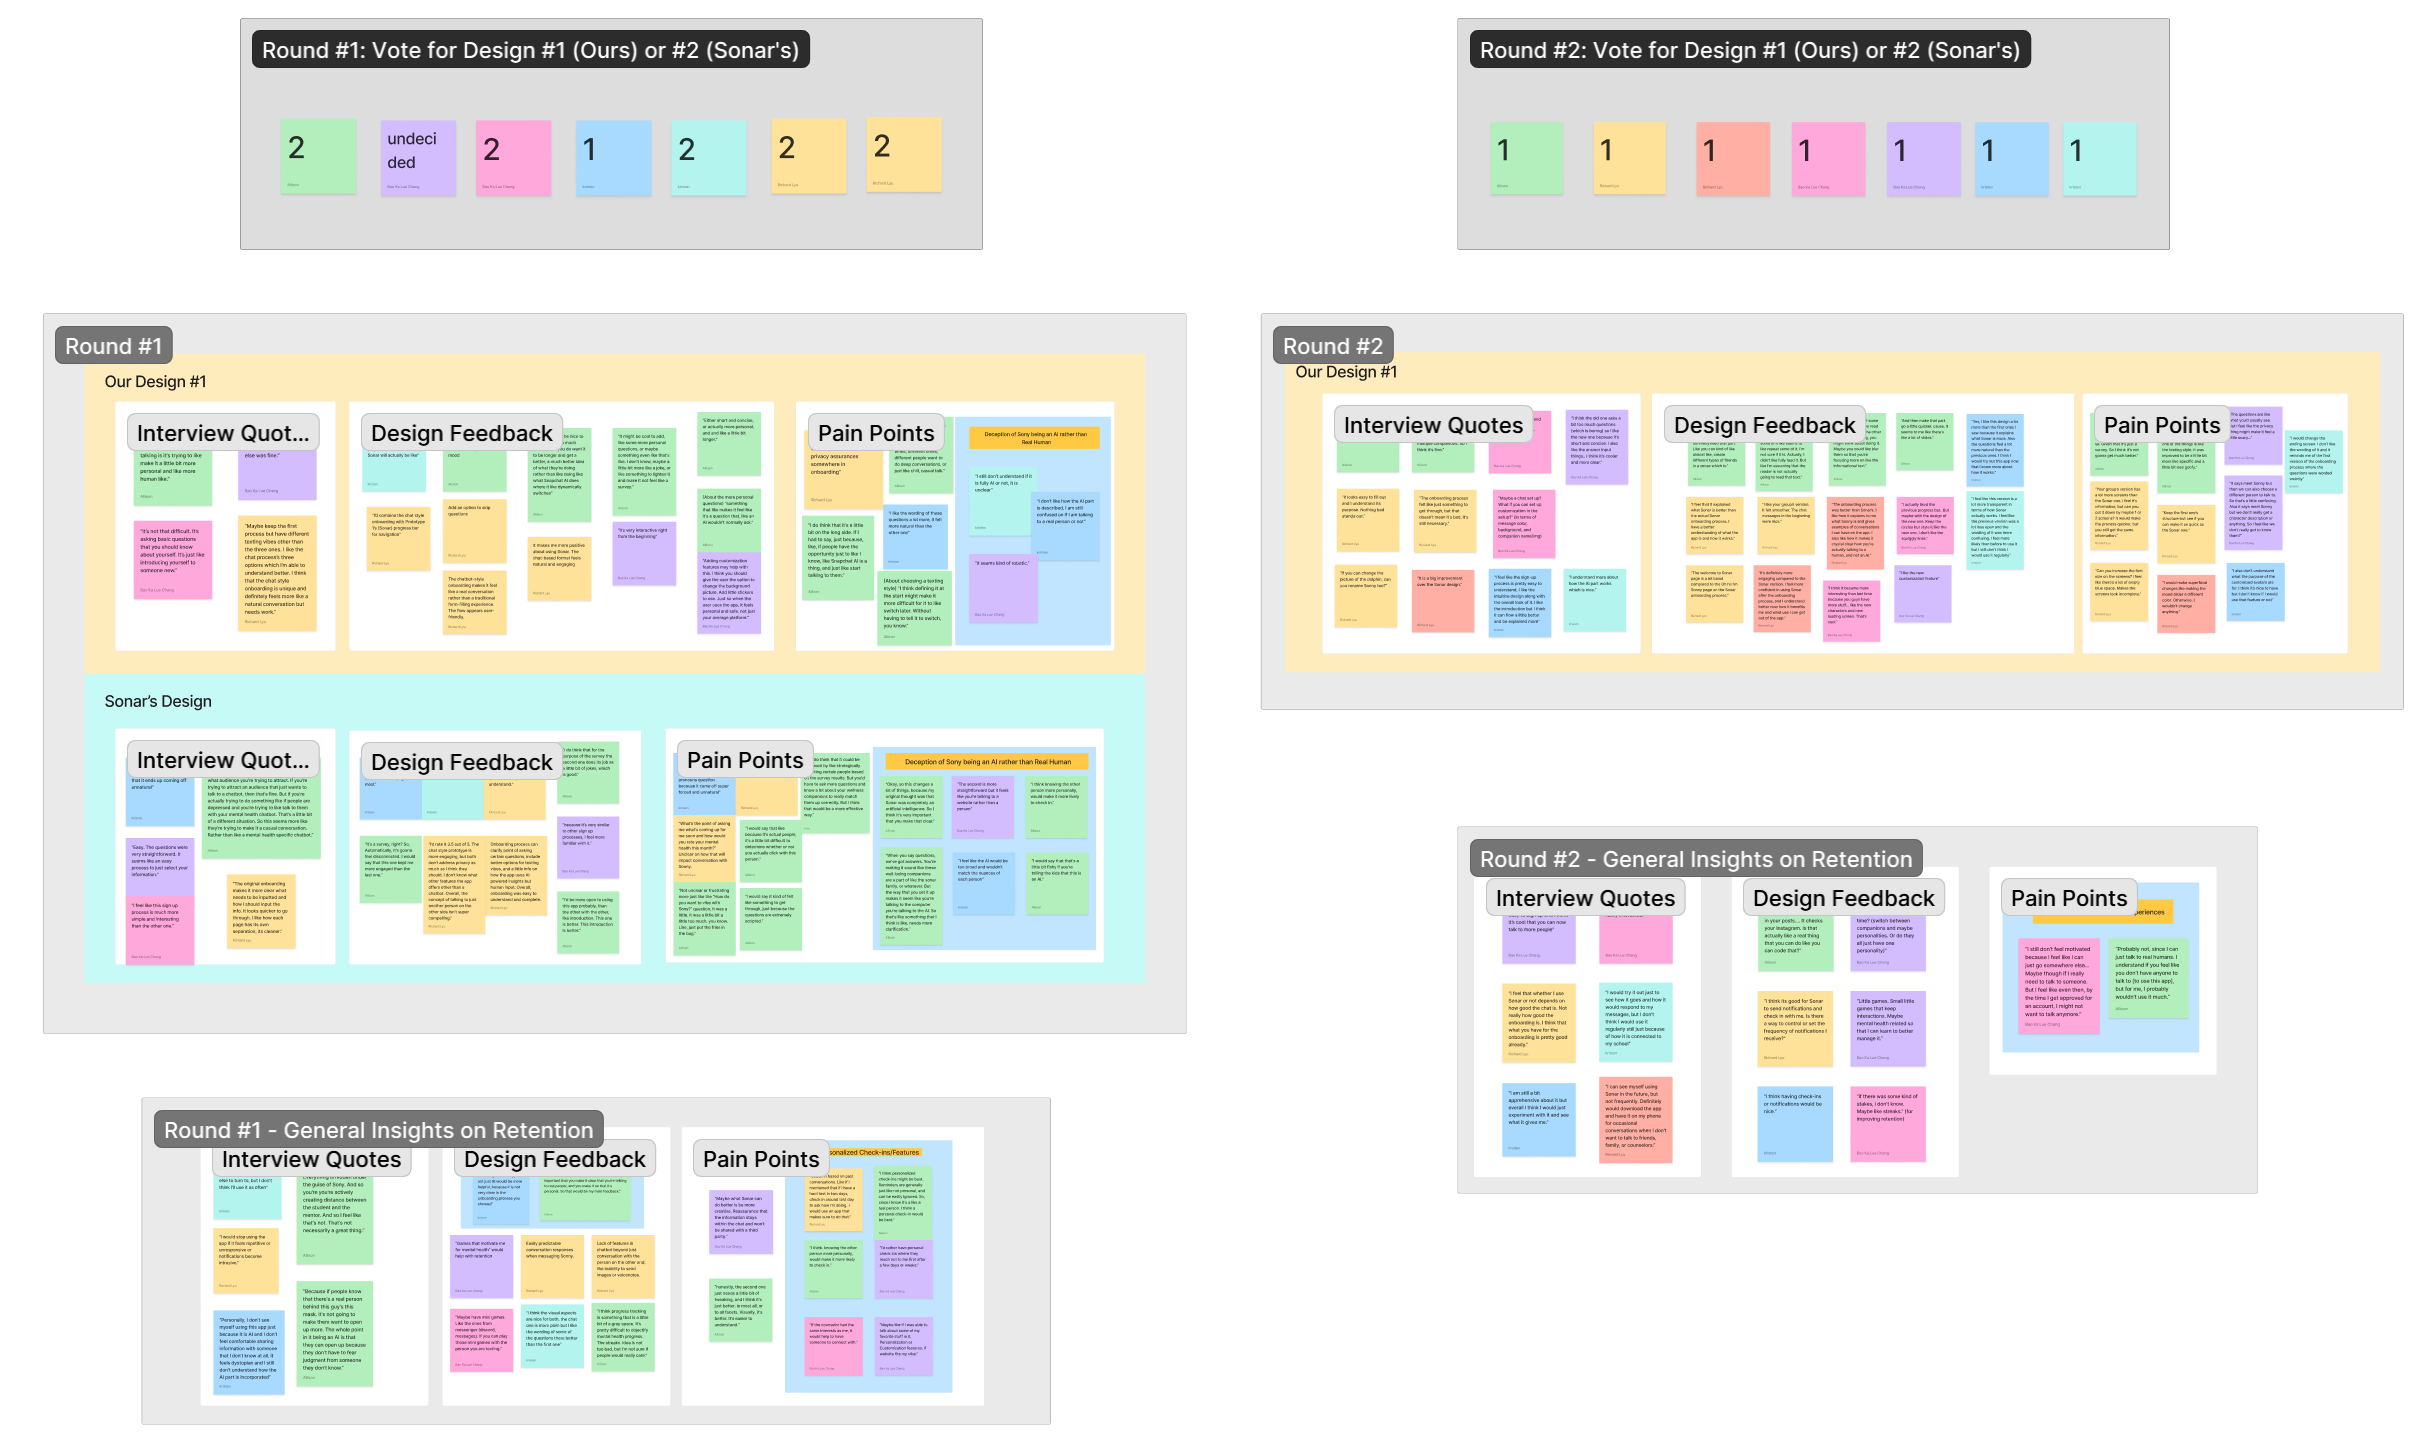
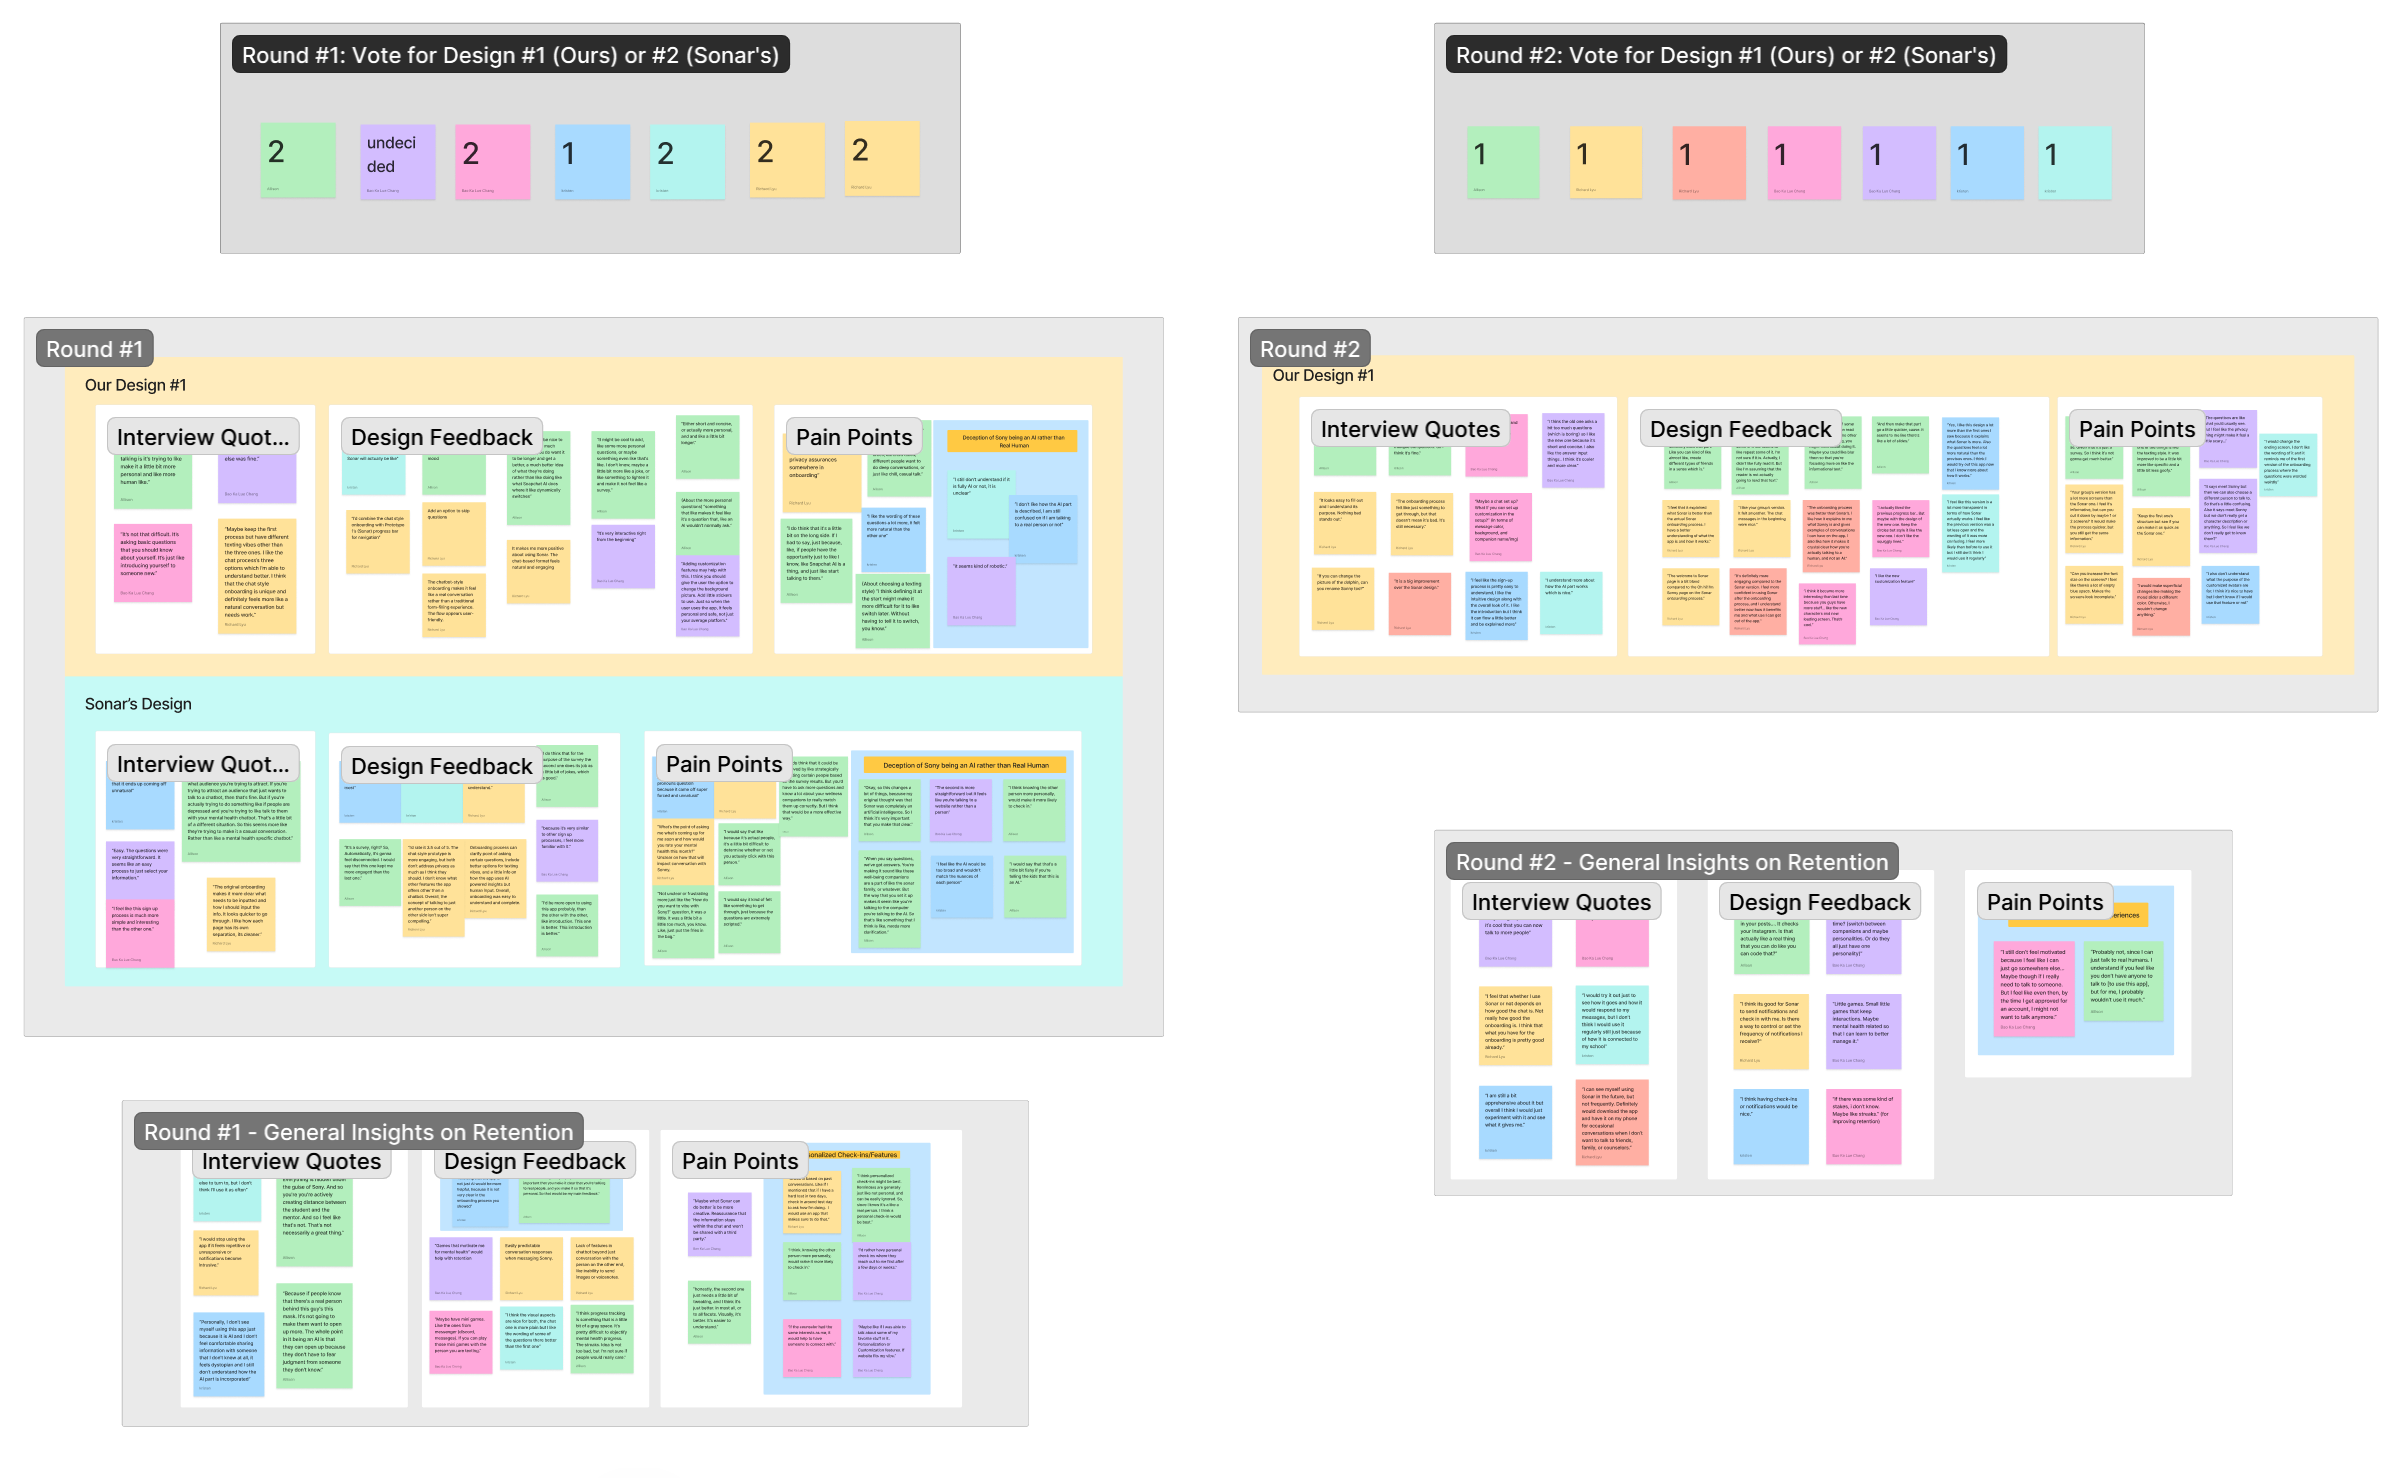
Added affinity diagram

diff --git a/design_process.html b/design_process.html
@@ -87,6 +87,16 @@
         </p>
     </section>
 
+    <section id="affinity-diagram">
+        <h2>Affinity Diagram</h2>
+        <div class="proto1-container">
+            <img src="assets/images/affinity-diagram.png" alt="Affinity Diagram">
+        </div>
+        <p>We conducted 2 rounds of interviews of 7 students aged 13 - 18 years old. 
+            In the first interview, we showed them our Prototype #1 and compared it to Sonar's design.
+            In the second interview, we showed them our Prototype #2 and compared it to Sonar's design again. 
+        </p>
+    </section>
 
     <section id="prototype1">
         <h2>Prototype #1</h2>

diff --git a/index.html b/index.html
@@ -122,6 +122,7 @@
     
     <div class="interactive-prototype-section">
         <h1>Interactive Figma Prototype</h1>
+        <p><b>Note:</b> Click on "Flow 1" on the tab on the left side of the screen to start</p>
         <iframe style="border: 1px solid rgba(0, 0, 0, 0.1);" width="800" height="450" 
         src="https://embed.figma.com/proto/WlzYz4vKAvmb5n5ZOCslHj/sonar-onboarding-prototype?node
         -id=494-1570&scaling=scale-down&content-scaling=fixed&page-id=0%3A1&starting-point-node-id=1%3A45&show-proto-sidebar=1&embed-host=share" allowfullscreen></iframe>

diff --git a/styles.css b/styles.css
@@ -342,6 +342,12 @@ figcaption {
     font-size: 40px;
 }
 
+.interactive-prototype-section p {
+    font-family: 'Lexend Regular', Arial, Helvetica, sans-serif;
+    color:#1E3A8A;
+    font-size: 20px;
+}
+
 iframe {
     border: none;
     width: 100%;
